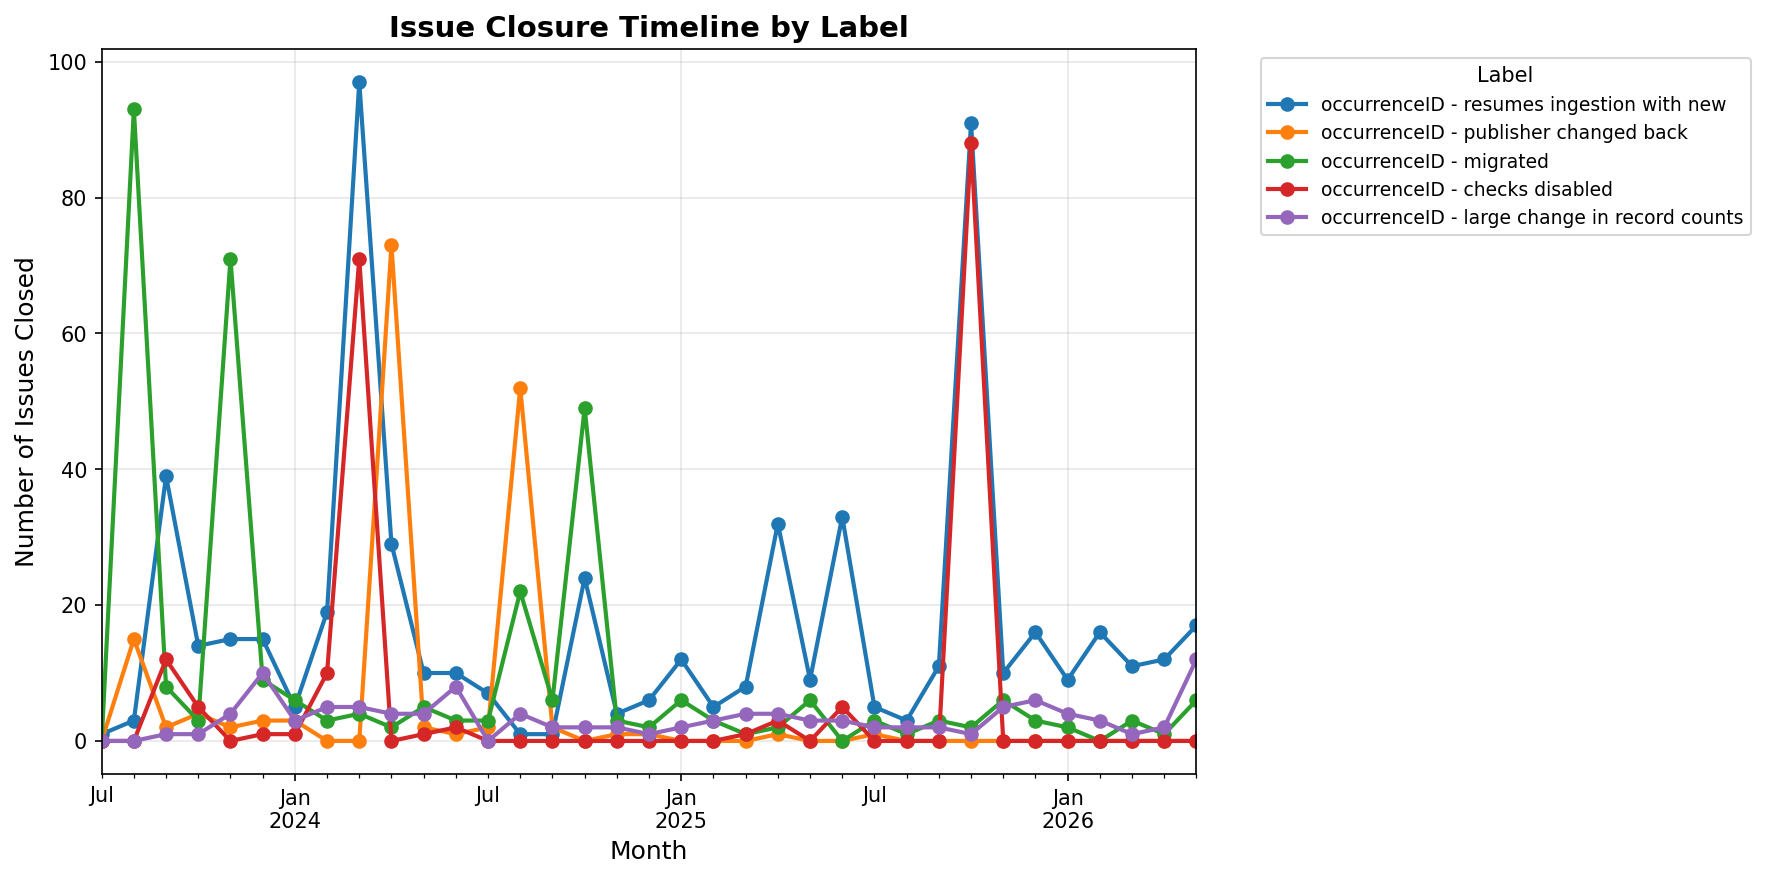
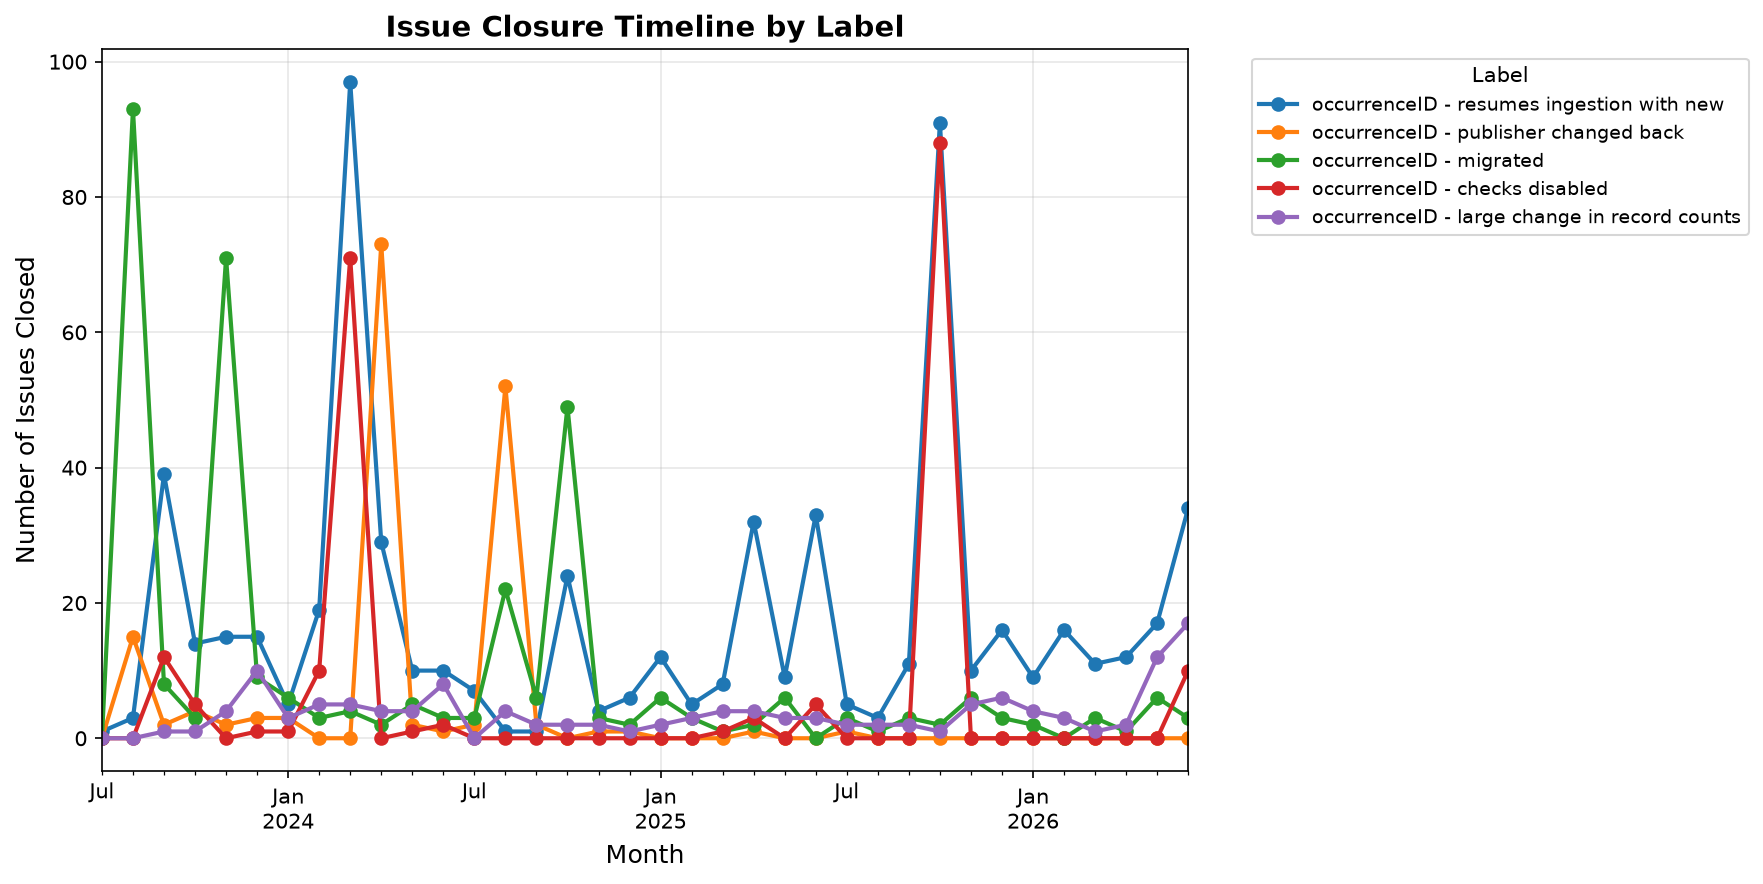
Update issue statistics [automated]

diff --git a/README.md b/README.md
@@ -13,17 +13,17 @@ See also this video for background information: https://vimeo.com/873639382
 
 ## Issue Statistics
 
-Last updated: 2026-06-01 01:05 UTC
+Last updated: 2026-07-01 01:03 UTC
 
 ### Closed Issues by Label
 
 | Label | Closed Issues |
 |-------|---------------|
 | occurrenceID - publisher changed back | 165 |
-| occurrenceID - resumes ingestion with new | 600 |
-| occurrenceID - migrated | 340 |
-| occurrenceID - checks disabled | 200 |
-| occurrenceID - large change in record counts | 115 |
+| occurrenceID - resumes ingestion with new | 634 |
+| occurrenceID - migrated | 343 |
+| occurrenceID - checks disabled | 210 |
+| occurrenceID - large change in record counts | 132 |
 
 ### Issue Closure Timeline
 
